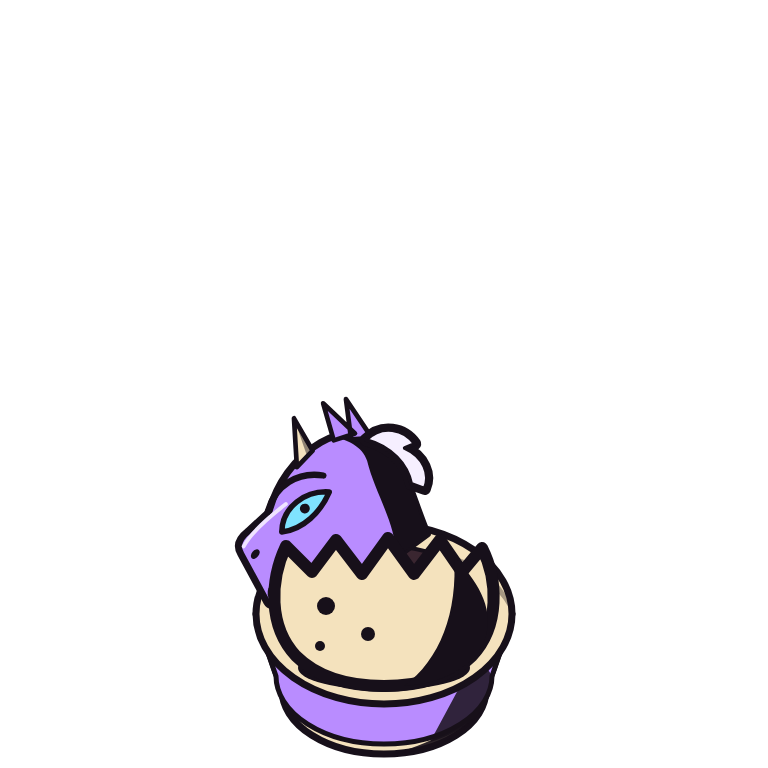
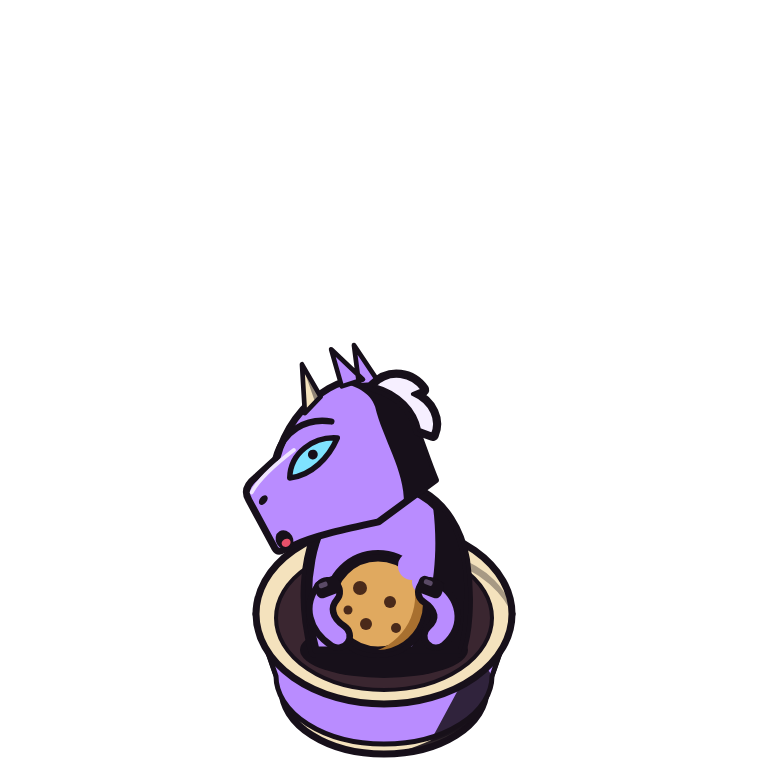
art-src: 獨角獸 t1 — 不用蛋殼，改成用蹄子抱著餅乾（餅乾不擋頭）
Claude-Session: https://claude.ai/code/session_01YcRvipXLdSARSXJBNmnAqn

Changed region(s): [[0.2812, 0.4375, 0.6562, 0.9062]]

diff --git a/art-src/unicorn/build.js b/art-src/unicorn/build.js
@@ -136,12 +136,27 @@ const HORN_A_SH = 'M468,256 C496,236 516,200 522,150 C518,212 500,252 472,270 C4
 const t3 = () => `${cup()}${plinth}${(mane() + head({ clipId: 'c3' }) + rigid(ears()) + level(mitre()) + rigid(uniHorn(0.95)))}`;
 
 /* ── t1 剛出生：蛋殼 + 小龍頭 + 兩隻小角 ── */
-const t1 = () => {
-  const shell = 'M286,650 C282,590 312,548 384,540 C456,548 486,590 482,650 Z';
-  return `${cup()}
-  <ellipse cx="384" cy="668" rx="86" ry="22" fill="${INK}"/>
-  <!-- 小獨角獸頭（探出殼外）-->
-  <g transform="translate(104 222) scale(.78) rotate(-30 380 420)">
+const t1 = () => {                                        // 小獨角獸：用兩隻蹄子抱著一塊餅乾（餅乾在胸前，不擋到頭）
+  const BODY = 'M316,650 C300,590 310,520 350,494 C400,470 452,500 462,560 C468,600 464,636 458,650 Z';
+  const leg = (d) => `<path d="${d}" fill="none" stroke="${INK}" stroke-width="30" stroke-linecap="round"/><path d="${d}" fill="none" stroke="${RED}" stroke-width="17" stroke-linecap="round"/>`;
+  const hoof = (x, y, r) => `<g transform="rotate(${r} ${x} ${y})"><rect x="${x - 13}" y="${y - 10}" width="26" height="18" rx="6" fill="${INK}"/><rect x="${x - 8}" y="${y - 7}" width="9" height="5" rx="2" fill="#5a4a66"/></g>`;
+  return `${cup()}${plinth}
+  <!-- 身體 -->
+  ${sil(BODY)}<path d="${BODY}" fill="${RED}" stroke="${INK}" stroke-width="${OL}" stroke-linejoin="round"/>
+  <path d="M432,500 C456,520 466,560 464,600 C464,630 460,642 458,650 L410,650 C434,610 440,550 432,500 Z" fill="${INK}"/>
+  <!-- 餅乾（有咬一口的缺角、巧克力豆）-->
+  <mask id="bite"><rect width="768" height="768" fill="#fff"/><circle cx="412" cy="566" r="14" fill="#000"/><circle cx="424" cy="582" r="12" fill="#000"/></mask>
+  <g mask="url(#bite)">
+    <circle cx="378" cy="604" r="46" fill="none" stroke="${INK}" stroke-width="${SIL}"/>
+    <circle cx="378" cy="604" r="46" fill="#e0a95f" stroke="${INK}" stroke-width="${OL}"/>
+    <path d="M410,572 A46,46 0 0 1 378,650 A58,58 0 0 0 410,572 Z" fill="#a8702f"/>
+    ${[[360, 588, 7], [390, 602, 6], [366, 624, 6], [396, 628, 5], [348, 610, 4.5]].map(([x, y, r]) => `<circle cx="${x}" cy="${y}" r="${r}" fill="#4a2a1a"/>`).join('')}
+  </g>
+  <!-- 兩隻前腳的蹄子抱著餅乾 -->
+  ${leg('M338,636 C320,624 316,606 328,592')}${hoof(328, 588, -20)}
+  ${leg('M436,636 C452,622 448,604 430,592')}${hoof(430, 588, 20)}
+  <!-- 頭最後畫，不會被餅乾擋住 -->
+  <g transform="translate(112 168) scale(.78) rotate(-30 380 420)">
     <path d="M198,392 L200,322 C200,310 208,304 222,302 L258,294 C284,268 320,250 360,250 C396,250 424,268 430,298 C440,332 426,372 420,420 L330,430 C292,418 250,404 222,402 L206,400 C200,400 198,398 198,392 Z" fill="${RED}" stroke="${INK}" stroke-width="${OL + 2}" stroke-linejoin="round"/>
     <path d="M372,248 C402,248 424,266 430,296 C440,330 426,372 420,420 L370,426 C392,390 388,340 400,300 C404,282 392,262 372,248 Z" fill="${INK}"/>
     <path d="M208,316 C224,306 252,300 282,296" fill="none" stroke="${HI}" stroke-width="5" stroke-linecap="round"/>
@@ -151,10 +166,6 @@ const t1 = () => {
     <path d="M376,256 L388,208 L404,262 Z M396,266 L416,218 L420,278 Z" fill="${RED}" stroke="${INK}" stroke-width="6" stroke-linejoin="round"/><path d="M318,262 L346,254 L346,206 Z" fill="${CREAM}" stroke="${INK}" stroke-width="6" stroke-linejoin="round"/><path d="M336,258 L346,254 L346,206 Z" fill="${INK}" opacity=".45"/>
     ${shape('M412,276 C440,268 462,288 464,312 L450,310 C466,332 462,356 446,368 L434,354 C442,330 436,300 412,276 Z', MANE_C, 5)}
   </g>
-  <!-- 蛋殼 -->
-  <path d="M286,546 L312,572 L336,540 L362,574 L388,538 L414,574 L440,540 L462,572 L482,548 C498,580 500,626 472,656 C448,680 414,686 384,686 C354,686 320,680 296,656 C268,626 270,580 286,546 Z" fill="${CREAM}" stroke="${INK}" stroke-width="${SIL - 4}" stroke-linejoin="round"/>
-  <path d="M454,556 C476,580 494,606 486,636 C476,668 440,684 404,686 C440,660 458,612 454,556 Z" fill="${INK}"/>
-  <circle cx="326" cy="606" r="9" fill="${INK}"/><circle cx="368" cy="634" r="7" fill="${INK}"/><circle cx="320" cy="646" r="5" fill="${INK}"/>
 `;
 };
 
